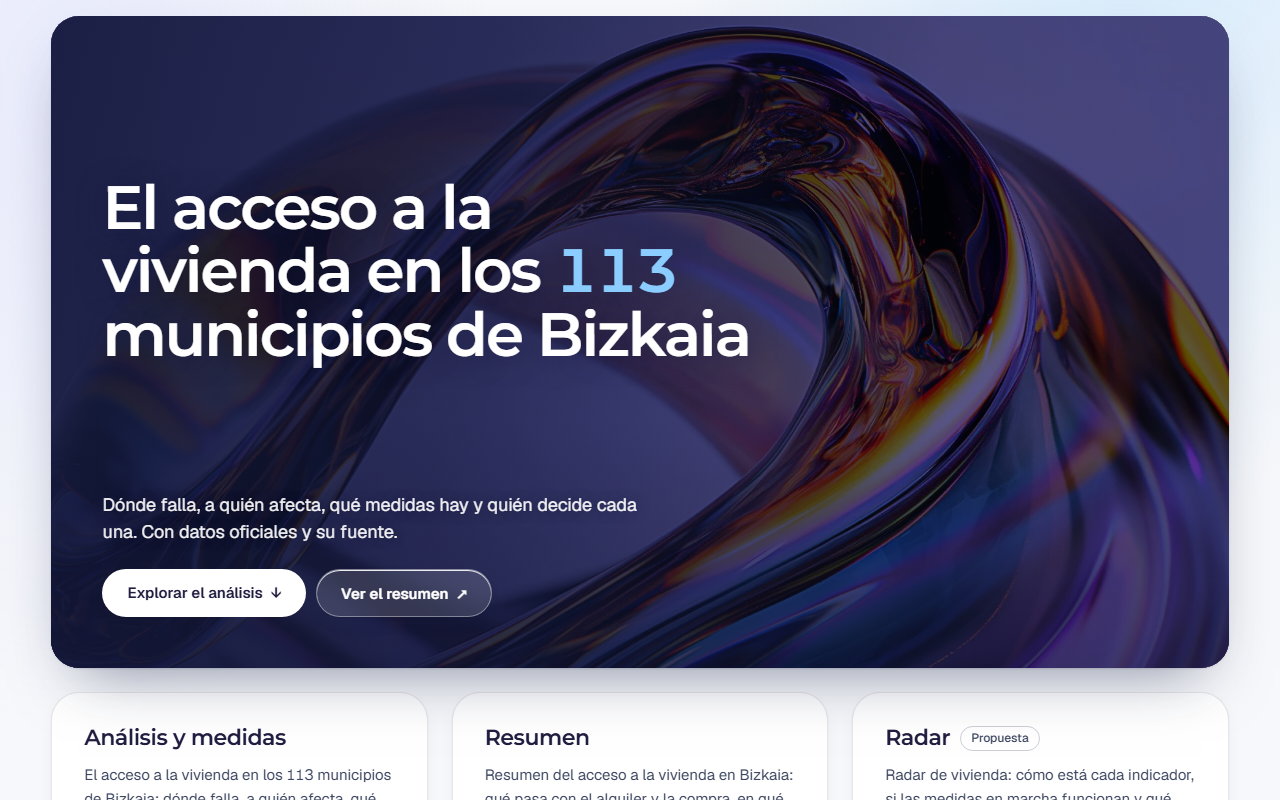
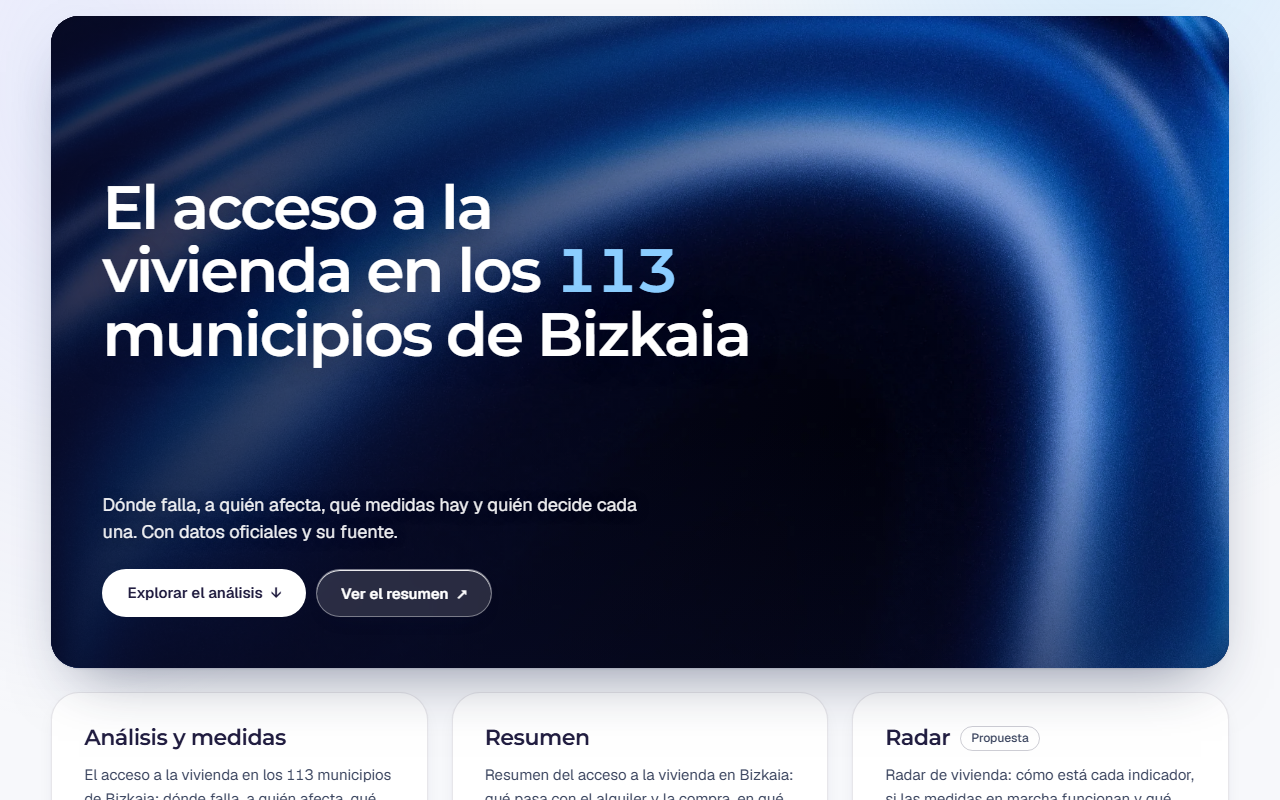
Portada: fondo con las tres imagenes azules (se muestra la 3) y velo ajustado

diff --git a/sprint-03-1/app/css/inicio.css b/sprint-03-1/app/css/inicio.css
@@ -14,12 +14,12 @@
 /* ---------- Tarjeta del hero ---------- */
 .hero-card { position: relative; isolation: isolate; overflow: hidden; display: grid; align-items: stretch; height: clamp(520px, calc(100dvh - 148px), 860px); padding: clamp(28px, 4vw, 64px); border-radius: var(--r-panel); background: var(--noche); color: #fff; box-shadow: 0 1px 2px rgba(26, 36, 70, .12), 0 28px 60px -28px rgba(26, 36, 70, .55); }
 .hero-fondo { position: absolute; inset: 0; z-index: -3; overflow: hidden; background: var(--noche); }
-.hero-fondo img { position: absolute; inset: 0; width: 100%; height: 100%; object-fit: cover; filter: saturate(1.15) contrast(1.05); }   /* el filtro es del fondo atmosférico, no del contenido */
-/* azul noche sobre la imagen: multiplica (conserva los reflejos del vidrio) y un velo a la izquierda para el texto */
-.hero-card::before { content: ""; position: absolute; inset: 0; z-index: -2; background: #5d5b9c; mix-blend-mode: multiply; }
+.hero-fondo img { position: absolute; inset: 0; width: 100%; height: 100%; object-fit: cover; }
+/* un toque de azul noche sobre la imagen (multiplica, conserva las luces) y un velo a la izquierda para el texto */
+.hero-card::before { content: ""; position: absolute; inset: 0; z-index: -2; background: #c9c9ee; mix-blend-mode: multiply; }
 .hero-card::after { content: ""; position: absolute; inset: 0; z-index: -1; background:
-  linear-gradient(100deg, rgba(20, 24, 58, .88) 0%, rgba(20, 24, 58, .62) 36%, rgba(20, 24, 58, .1) 70%, rgba(20, 24, 58, 0) 100%),
-  linear-gradient(0deg, rgba(20, 24, 58, .45) 0%, rgba(20, 24, 58, 0) 38%); }
+  linear-gradient(100deg, rgba(8, 12, 40, .82) 0%, rgba(8, 12, 40, .6) 36%, rgba(8, 12, 40, .12) 68%, rgba(8, 12, 40, 0) 100%),
+  linear-gradient(0deg, rgba(8, 12, 40, .5) 0%, rgba(8, 12, 40, 0) 38%); }
 
 .hero-texto { align-self: stretch; display: grid; grid-template-rows: 1fr auto auto; gap: var(--s4); max-width: 46rem; min-width: 0; }
 .hero-t { align-self: center; margin: 0; font: 600 clamp(2.25rem, 1rem + 3.5vw, 4.5rem)/1.04 var(--f-display); letter-spacing: -.03em; text-wrap: balance; text-shadow: 0 2px 30px rgba(10, 14, 40, .35); }

diff --git a/sprint-03-1/app/js/inicio.js b/sprint-03-1/app/js/inicio.js
@@ -10,6 +10,8 @@ import { cifrasPlanas } from "./lectura.js";
 import { modo, reducido } from "./movimiento.js";
 
 const ES_INICIO = /^#?(inicio)?$/;
+// Fondo del hero: tres imágenes «flow» azules (img/flow/flow-1..3.webp). ?fondo=1|2|3 solo para compararlas; por defecto la 3.
+const FONDO = ["1", "2", "3"].includes(new URLSearchParams(location.search).get("fondo")) ? new URLSearchParams(location.search).get("fondo") : "3";
 
 const sec = document.getElementById("inicio");
 const vista = document.getElementById("vista");
@@ -44,7 +46,7 @@ function limpiarEntrada() { sec.querySelectorAll(".rise").forEach((n) => n.class
 
 async function construir() {
   const img = sec.querySelector(".hero-fondo img");
-  img.src = new URL("../img/flow/flow-a.webp", import.meta.url).href;
+  img.src = new URL(`../img/flow/flow-${FONDO}.webp`, import.meta.url).href;
   const store = await cargarStore();
   const n = es(store.codes.length);
   sec.querySelectorAll(".n-munis").forEach((s) => { s.textContent = n; });

diff --git a/sprint-03-1/_qa/qa-inicio.js b/sprint-03-1/_qa/qa-inicio.js
@@ -90,7 +90,7 @@ export async function run() {
 
   // ---------- imagen ----------
   const img = $(".hero-fondo img");
-  ok("El fondo «flow» carga y es WebP optimizado (< 300 KB)", img.complete && img.naturalWidth >= 1900 && /\/img\/flow\/flow-a\.webp$/.test(img.src) && (await fetch(img.src, { method: "HEAD" }).then((x) => +x.headers.get("content-length") < 300000)), img.src);
+  ok("El fondo «flow» carga y es WebP optimizado (< 300 KB)", img.complete && img.naturalWidth >= 1900 && /\/img\/flow\/flow-[123]\.webp$/.test(img.src) && (await fetch(img.src, { method: "HEAD" }).then((x) => +x.headers.get("content-length") < 300000)), img.src);
 
   // ---------- la cabecera de las seis vistas es la del ANÁLISIS ----------
   const cab = () => { const b = $(".banda"); return { vis: getComputedStyle(b).visibility, top: Math.round(b.getBoundingClientRect().top) }; };

diff --git a/docs/diseno/AUDITORIA_HOME.md b/docs/diseno/AUDITORIA_HOME.md
@@ -21,7 +21,7 @@ Encargo: `CLAUDE_REVISION_GLOBAL_HOME_ECOSISTEMA_BIZKAIA.md`. Rama local `ux/hom
 | Enlaces externos de datos en Método/Medidas: incluyen fuentes que no son oficiales (p. ej. `roams.es`, `mof.gov.sg`, `elindependiente.com`) | Inventario de `a[href^=http]` en las seis vistas (27 enlaces) | Editorial, no de diseño | Media | **Revisión editorial del autor**: no se tocan |
 | Hay clases y reglas duplicadas entre hojas por vista | `.eligen` (Medidas y Municipios con reglas distintas), `.pie` (marco, Situación y Medidas), `.sr-only` (lectura y Medidas) | Bajo hoy; riesgo de divergencia | Baja | Consolidar en una pasada de limpieza aparte |
 | Componentes reutilizados | `.vidrio`, `.btn`, lienzo de mapa (Situación, Acceso, barrios), índice interno (`lectura.js`), banner municipal, píldora deslizante | Positivo | — | Mantener |
-| Assets realmente usados | `img/flow/flow-a.webp` (204 KB) en el hero; **un** banner municipal a la vez (de 52 WebP, 11,7 MB en el repo) | Bajo: solo se carga lo visible | — | Mantener; Lighthouse pendiente |
+| Assets realmente usados | `img/flow/flow-3.webp` (217 KB) en el hero (más `flow-1` y `flow-2` para comparar); **un** banner municipal a la vez (de 52 WebP, 11,7 MB en el repo) | Bajo: solo se carga lo visible | — | Mantener; Lighthouse pendiente |
 | Al cargar la raíz, Situación reescribe la dirección a `#situacion/alquiler` | `js/situacion/index.js:283` (`replaceState`) | Bajo: copiar la URL tras entrar no devuelve la portada | Baja | Decidir si la raíz debe conservarse mientras el hero está |
 | La marca de la cabecera es texto; el logotipo existe solo en `ux/prueba-logo`, sin aprobar | rama `ux/prueba-logo`; el logotipo es azul oscuro y no sirve sobre el hero oscuro sin versión clara | Medio | Media | **Decisión del autor**: aprobar logotipo y su versión para fondo oscuro |
 | «Radar» no tiene verificada su operación | spec §1 | Editorial | Alta | Etiqueta «Propuesta» en su puerta, marcada como texto por validar |

diff --git a/docs/diseno/HOME_ECOSISTEMA.md b/docs/diseno/HOME_ECOSISTEMA.md
@@ -3,7 +3,7 @@
 Rama local `ux/home-ecosistema`, sin publicar. Sustituye a la portada anterior (`INICIO.md`), que no cumplía el encargo (rueda secuestrada, cifras de adorno).
 
 ## Tiempo 1 · Hero (composición A, elegida)
-Marco azul noche con una imagen «flow» como fondo atmosférico (nunca como dato): la imagen aportada, convertida a WebP (`app/img/flow/flow-a.webp`, 204 KB). Un multiplicado azul noche conserva los reflejos del vidrio y un velo a la izquierda da el contraste del texto. De las dos composiciones propuestas (A editorial inmersiva y B atlas primero) se eligió la A; la B (y el selector `?hero=`) se retiró.
+Marco azul noche con una imagen «flow» como fondo atmosférico (nunca como dato). Hay tres imágenes azules aportadas, convertidas a WebP (`app/img/flow/flow-1.webp`, `flow-2.webp` y `flow-3.webp`, 205, 137 y 217 KB); la que se muestra es la **3** (la de más luz, con los arcos a la derecha). `?fondo=1|2|3` solo sirve para compararlas (`capturas/home/1440-hero-fondo1..3.png`). Un toque de azul noche y un velo a la izquierda dan el contraste del texto. De las dos composiciones propuestas (A editorial inmersiva y B atlas primero) se eligió la A; la B (y el selector `?hero=`) se retiró.
 
 Contenido (sin textos nuevos del autor): titular «El acceso a la vivienda en los **113** municipios de Bizkaia» (el 113 sale de los datos) · «Dónde falla, a quién afecta, qué medidas hay y quién decide cada una. Con datos oficiales y su fuente.» (descripción de la web publicada) · botón principal **«Explorar el análisis ↓»** (lleva a Situación) · botón secundario **«Ver el resumen ↗»** (URL exacta, 200 comprobado). Sin píldora superior. Marca: la de la cabecera (texto limpio); el logotipo está pendiente de aprobación.
 
